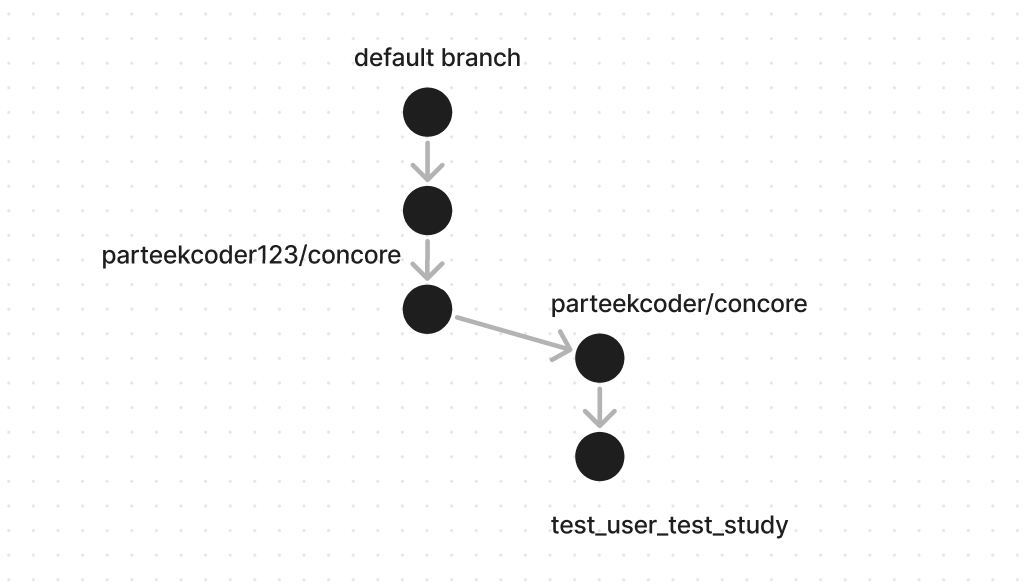
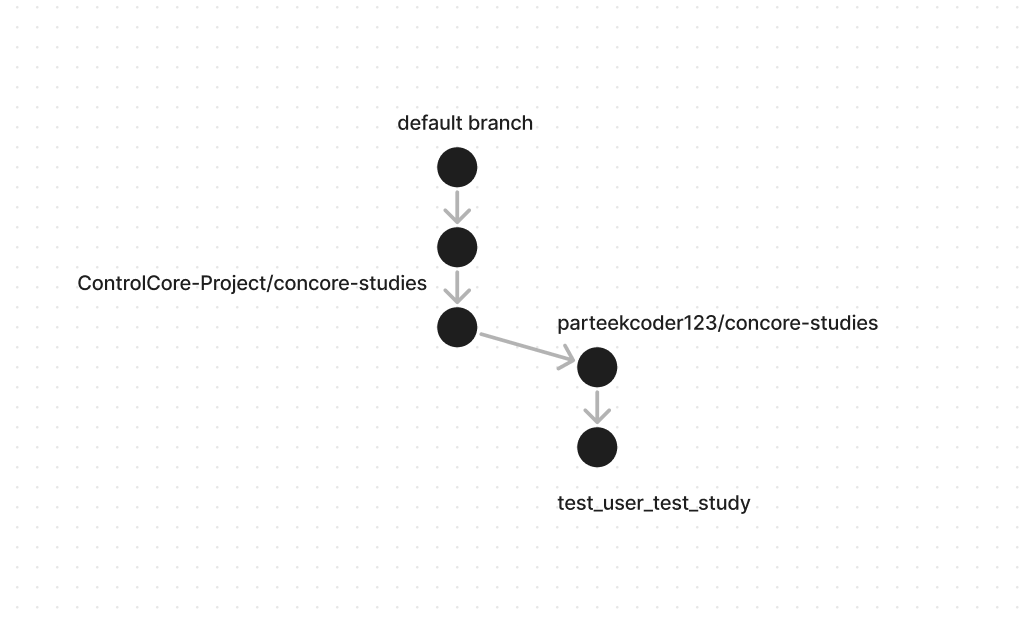
improved dev docs

Changed region(s): [[0.0621, 0.1533, 0.8699, 0.8279], [0.5282, 0.8586, 0.7767, 0.9199], [0.3417, 0.0613, 0.4971, 0.1227]]

diff --git a/docs/source/contributeactiondev.rst b/docs/source/contributeactiondev.rst
@@ -35,6 +35,8 @@ How it works
 Creating token for bot
 ----------------------
 
+This token is used to create branches and push studies to bot repo.After pushing studies to bot repo it dispatch ``pull_request.yml`` workflow.
+
 - Open the bot account at github and navigate as follow:
 
   
@@ -54,12 +56,31 @@ Creating token for bot
 
 - Then copy the generated token and hash it using this website in base64 encoding http://www.unit-conversion.info/texttools/base64/
 
-- Place the token in contribute.py script in concore repo
+- Place the token in ``contribute.py`` script at https://github.com/parteekcoder/concore/blob/main/contribute.py#L7 
 
 
 Creating token for workflow
 ---------------------------
 
-- Create a  Personal access token of upstream repo
+This token is used to create pull request to upstream repo using bot account as author of pull request.
 
-- Place that token in secrets of bot repo so that the workflow 
+- Open bot account at Github
+
+- Create a  Personal access token of bot account at https://github.com/settings/tokens/new
+
+- Fill the details as shown below:
+
+.. image:: images/ca-workflow-token.png
+  :width: 700
+
+- Click ``Generate token`` at bottom of the page , then Copy the token
+
+.. image:: images/ca-workflow-token-generate.png
+  :width: 700
+
+- Add this token as Github secret in bot repo at https://github.com/parteekcoder123/concore-studies/settings/secrets/actions/new with name ``token`` 
+
+.. image:: images/ca-workflow-secret.png
+  :width: 700
+
+- Click ``Add secret``
